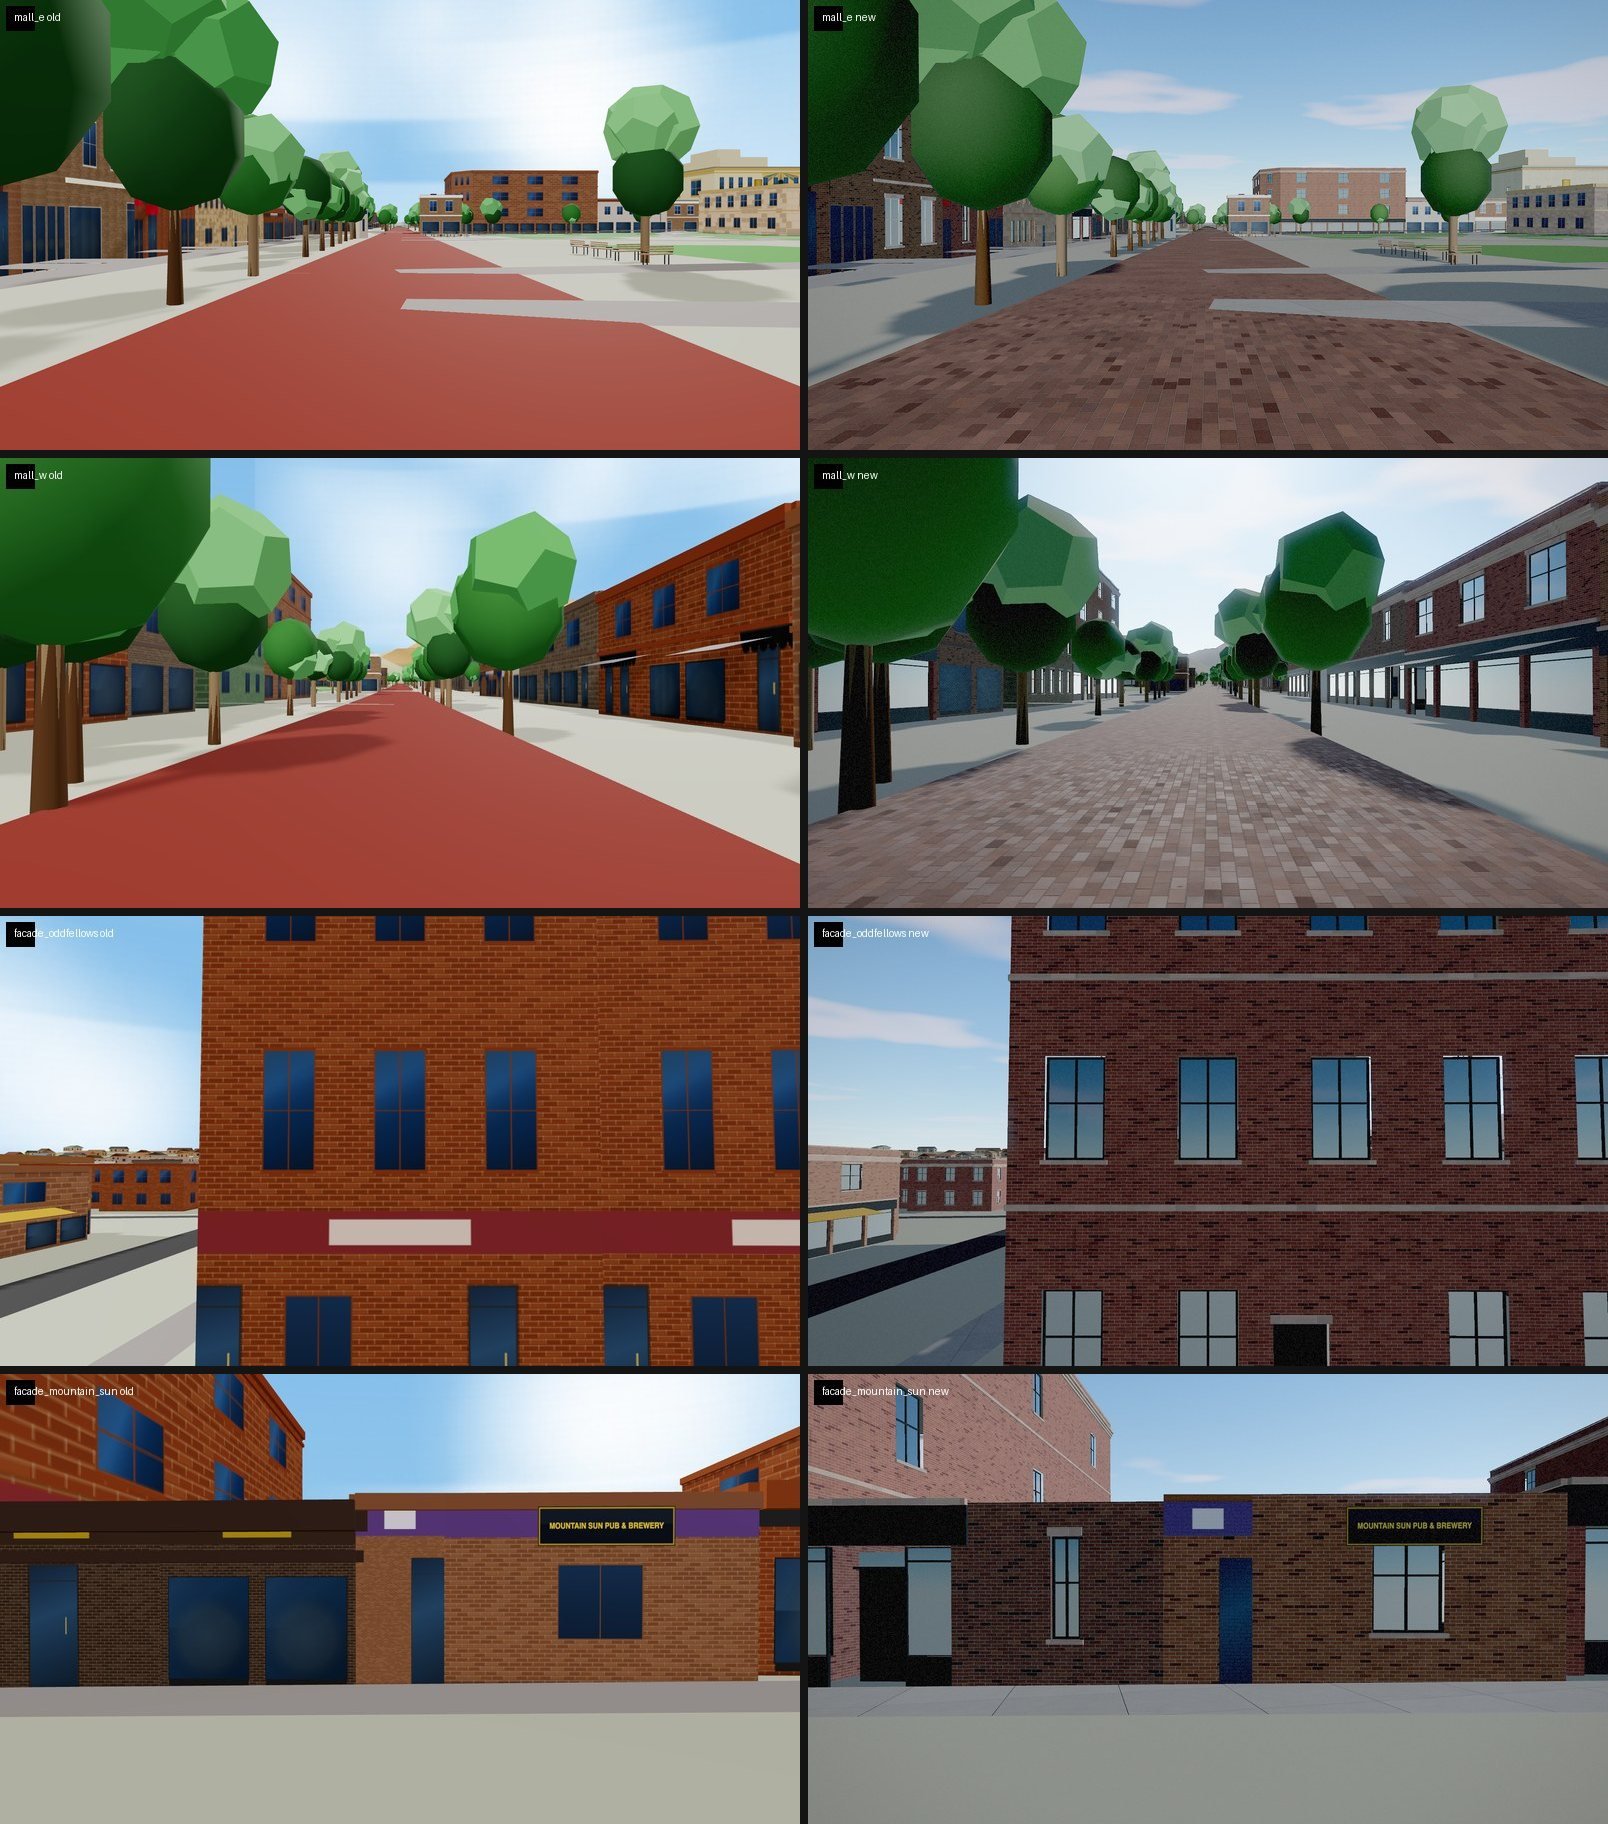
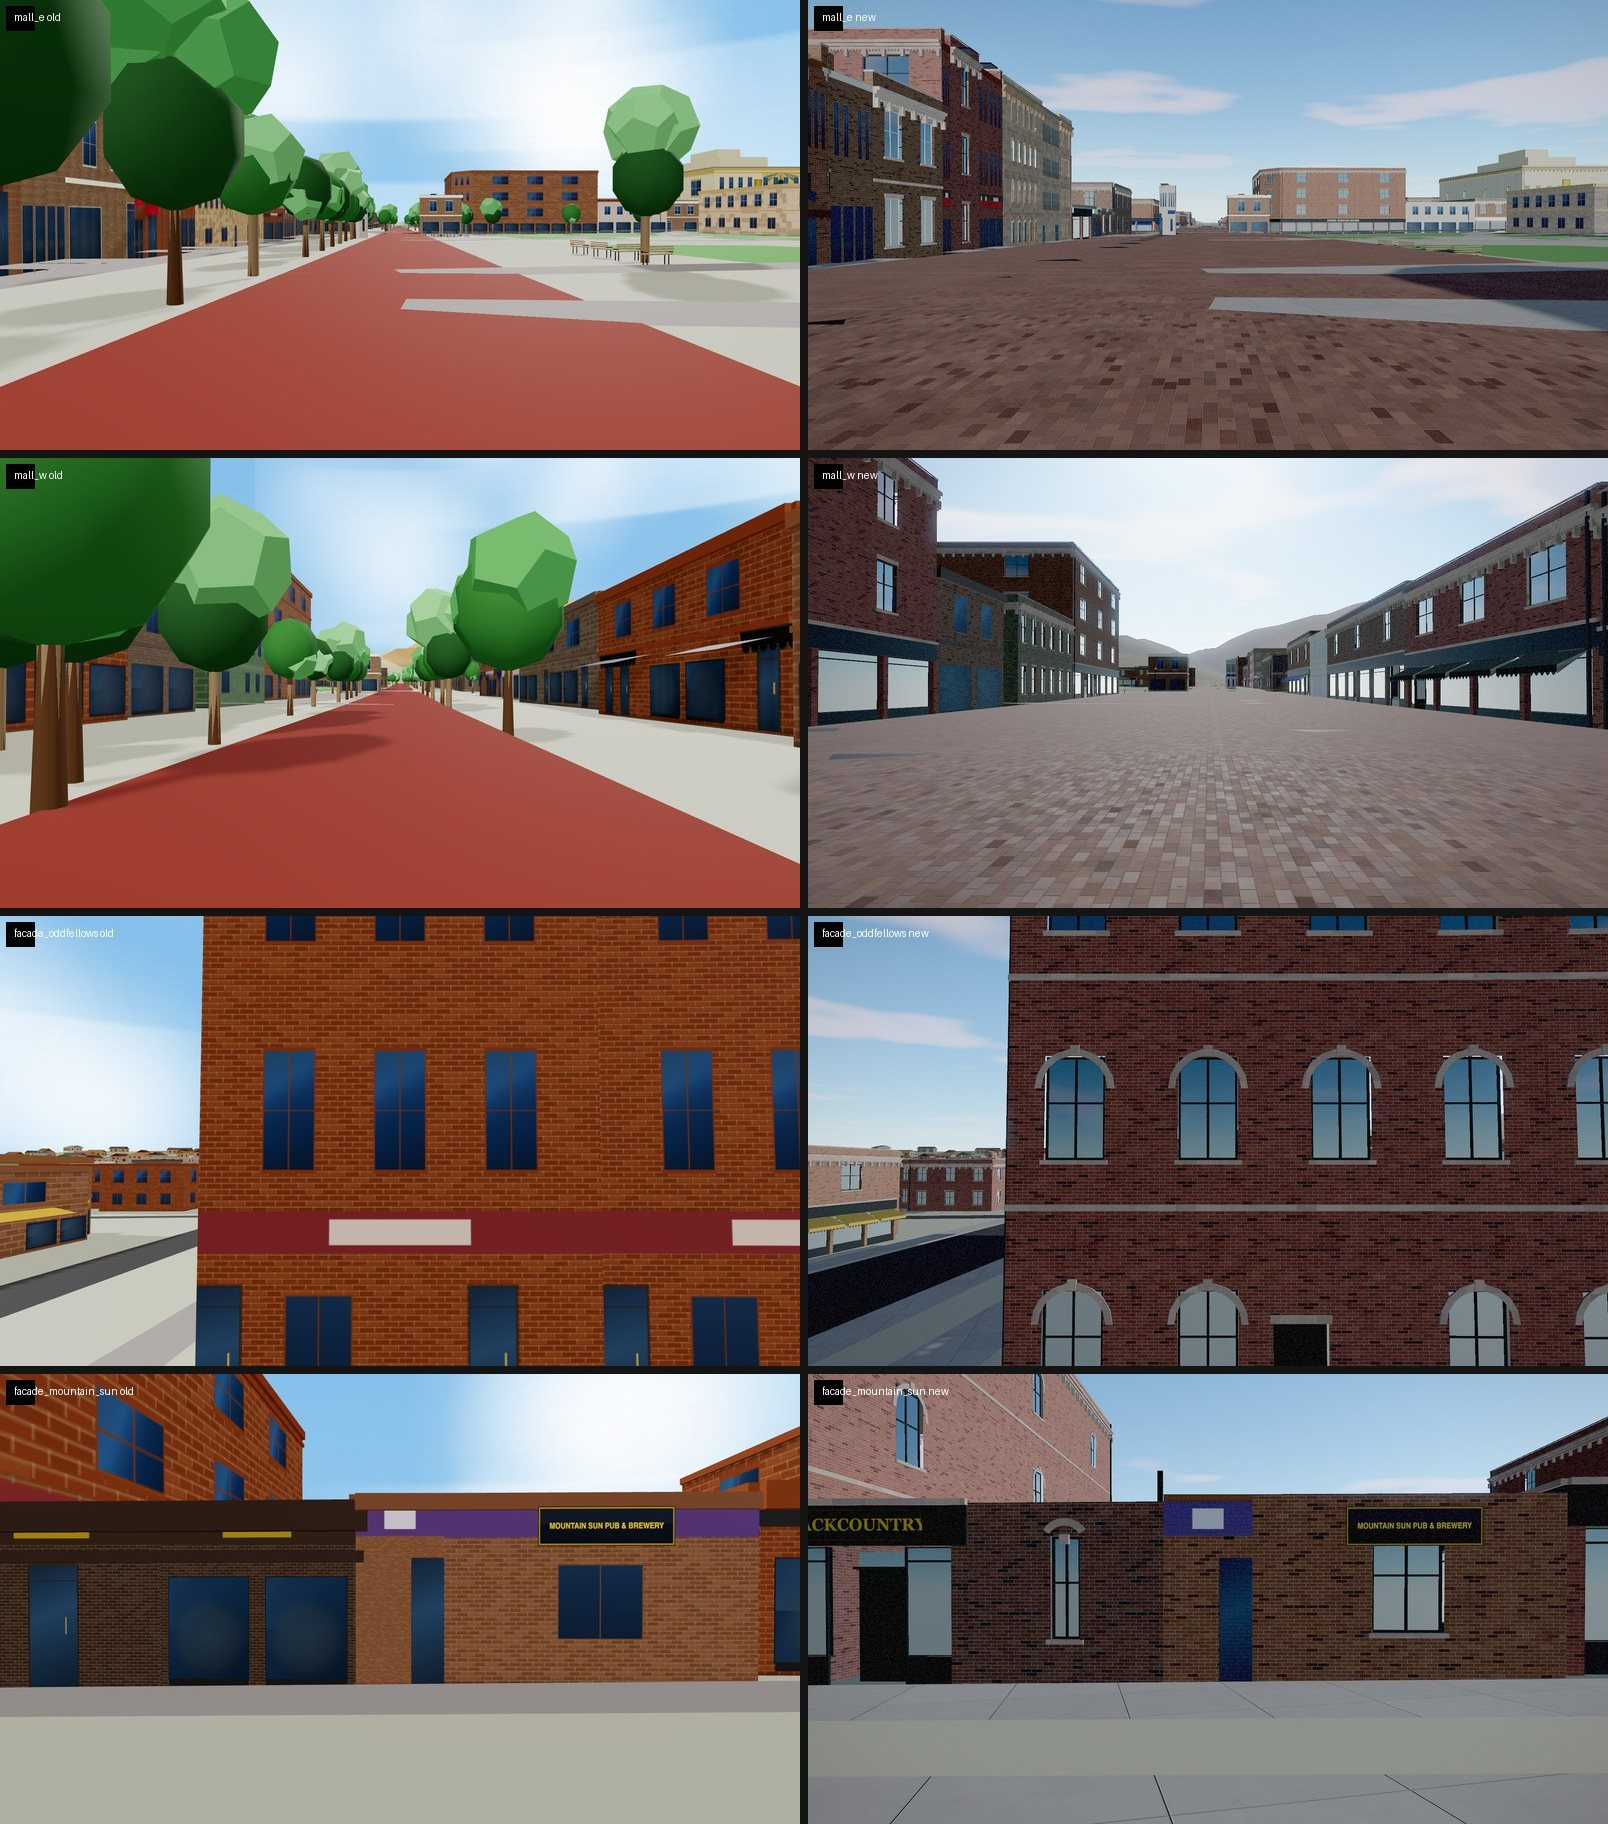
Content pass: nine-view sheets, report section, README switch

diff --git a/docs/step2_render.md b/docs/step2_render.md
@@ -83,6 +83,27 @@ The frame is cheaper despite more triangles because the post chain renders throu
 target and the GPU is better used; the call count is the next thing to cut (one mesh per
 material per building, then per block).
 
+## Content pass (same day, commit a367f7c and after)
+
+Asked for: more realistic facades, roads and trees, not lighting.
+
+- **Trees**: 3DSceneRenderer's vegetation module (grown templates, leaf atlas painted in
+  workers, bark recipes, three detail levels, wind, ground shade) at the 201 OSM positions,
+  through a stand-in route and layout in `viewer/src/pearlWorld.js`. Cast-iron grates under the
+  mall trees. The old dodecahedron blobs are gone (`content=0` brings them back).
+- **Facades**: arched heads with keystones (segmental on Victorian fronts, round on
+  Romanesque), bracketed cornices with dentils on the ornate fronts, canvas awnings per
+  storefront bay where the style describes one, the shop's name lettered on the fascia, a
+  downspout on a third of the long fronts.
+- **Roads**: the mall paved with brick pavers building to building (22 m), streets at their
+  carriageway widths with a concrete sidewalk ribbon a kerb's height up on each side.
+
+Measured against the photos: mall_e now sits inside the envelope on everything but
+clipping; the Mountain Sun front the same; the Boulder Theater and PosterScene fronts are
+still bright and flat (sun-facing) and the Odd Fellows front a little dark (shaded). Texture
+on the mall views rose again (blk16 6.2 to 7.7, hp1 3.2 to 3.8) with the trees and the awnings
+in frame.
+
 ## Open work
 
 - Batch the facades per material across buildings and cull far ones (draw calls).

diff --git a/tools/README.md b/tools/README.md
@@ -18,6 +18,7 @@ needed to run the viewer.
 | `lit=0` | the old lighting (three fixed lights, canvas sky, ACES) instead of the Boulder sun, physical sky, cascaded shadow and AgX |
 | `mat=0` | the old painted canvas walls and flat ground instead of the baked surfaces and 3D facades |
 | `post=0` | no camera post (HDR target, sharpening, bloom, vignette, grain) |
+| `content=0` | the old blob trees instead of the grown trees (3DSceneRenderer's vegetation module) and tree grates |
 | `date=MM-DD`, `tod=<hour>` | sun date and local decimal hour (default April 17, 16.75: the April photo series) |
 | `expo=`, `envi=`, `suni=`, `haze=` | multipliers and values for exposure, sky-light intensity (default 0.2), sun intensity and haze density, for attribution runs |
 | `bloom=`, `grain=`, `sharp=`, `vig=` | post strengths |
